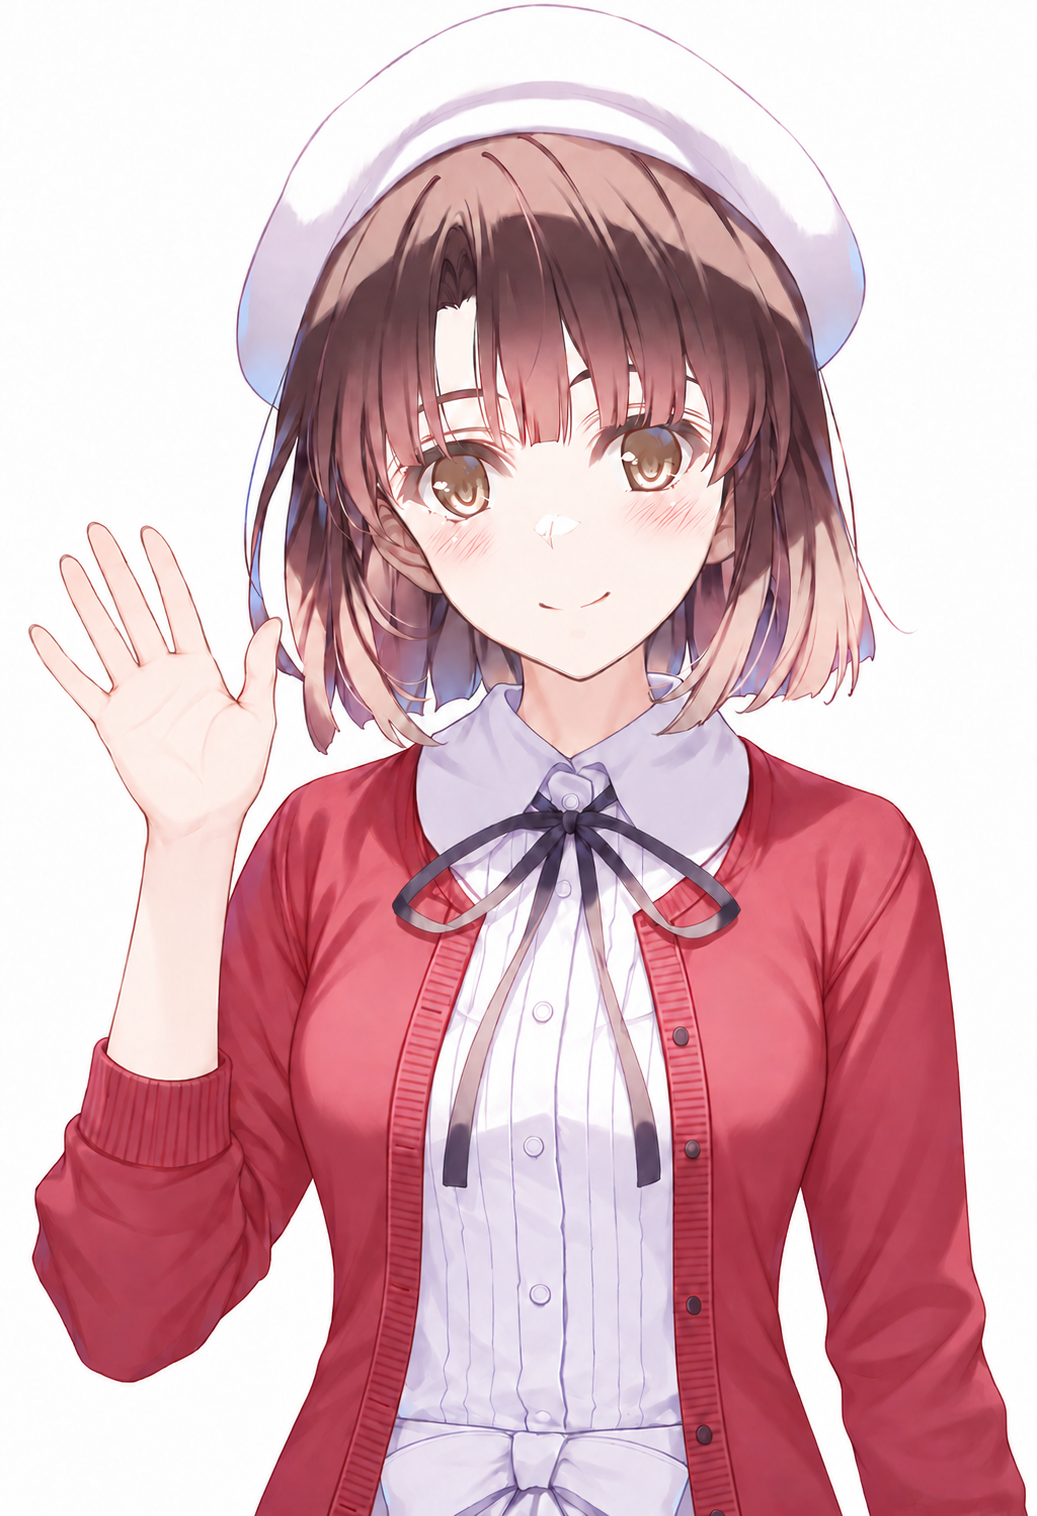
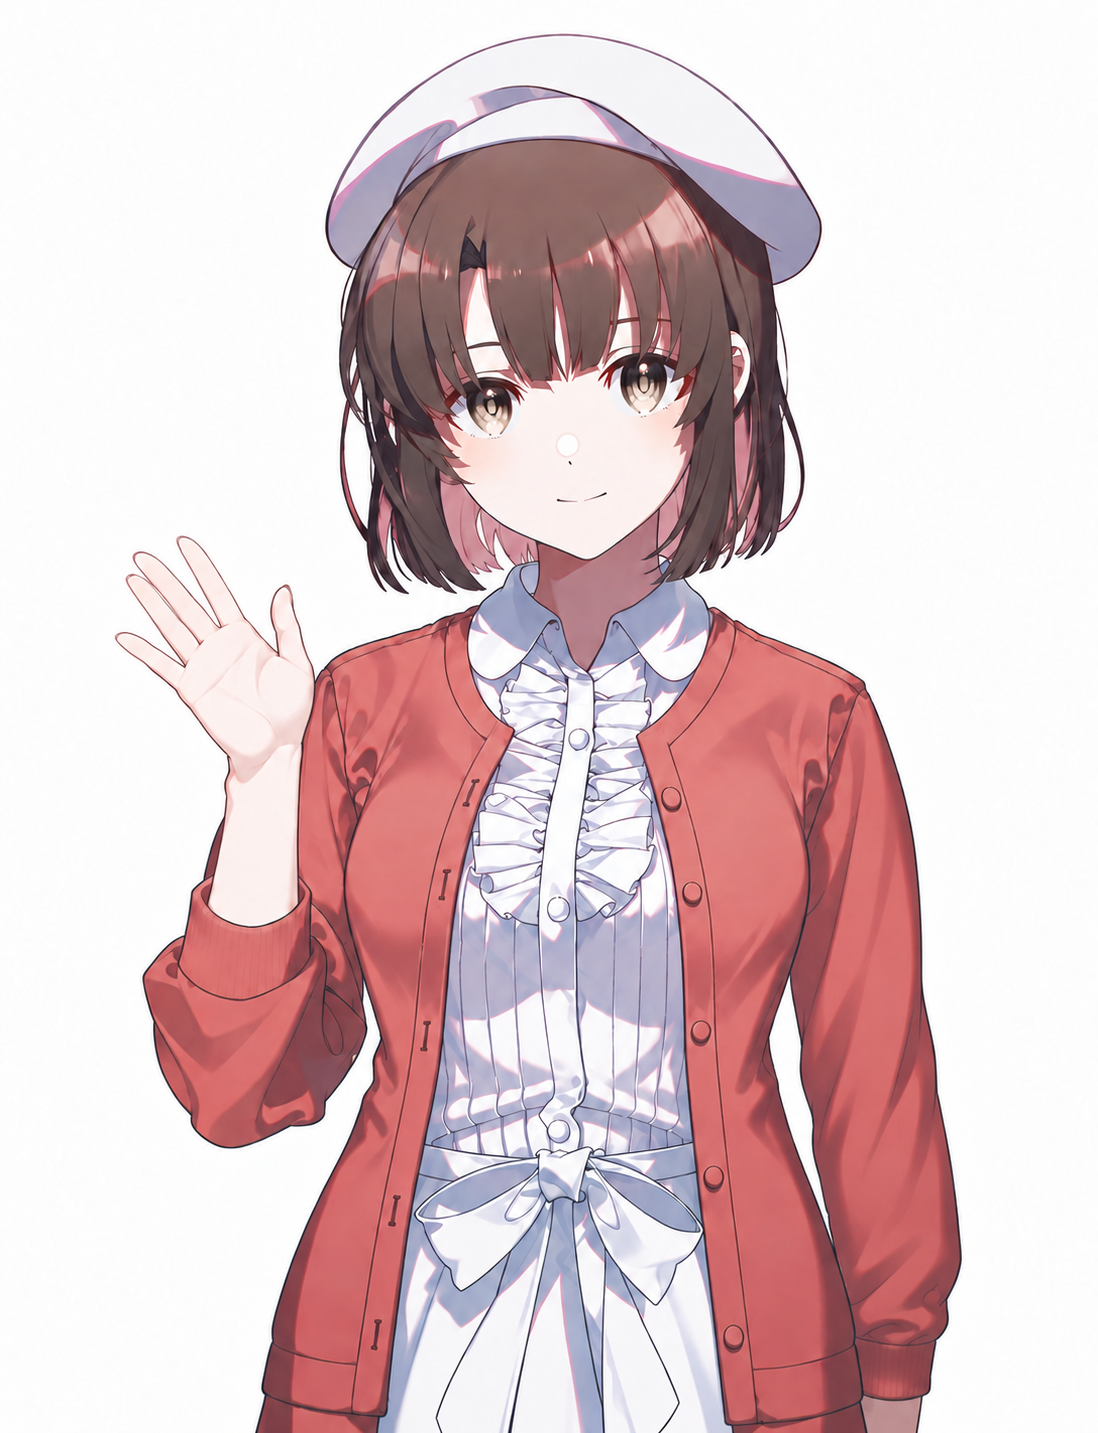
Update 加藤惠 default portrait

diff --git a/images/portraits/saekano/katou-megumi/README.md b/images/portraits/saekano/katou-megumi/README.md
@@ -1,9 +1,9 @@
 # 加藤惠 · 常规立绘
 
 - 当前文件：[default.png](default.png)。
-- 用户选定原图：`215-katou-megumi-A-single-artist-repair-v3-fitted-waist-20260913.png`。
-- 尺寸：1037 × 1516；大小：1,721,865 字节。
[1 lines of base64/hex data omitted]
+- 用户选定原图：`exec-408ffc66-1d96-4b73-ab9e-fcac282dba6e.png`。
+- 尺寸：1098 × 1433；大小：1,653,792 字节。
[1 lines of base64/hex data omitted]
 - PNG 模型记录：未知。
 - 可读取的生成参数：seed 未知；steps 未知；scale 未知；cfg_rescale 未知；sampler 未知；noise_schedule 未知。
 - 原图字节及内嵌数据完整保留，没有裁切、缩放、抠图或重新编码。
